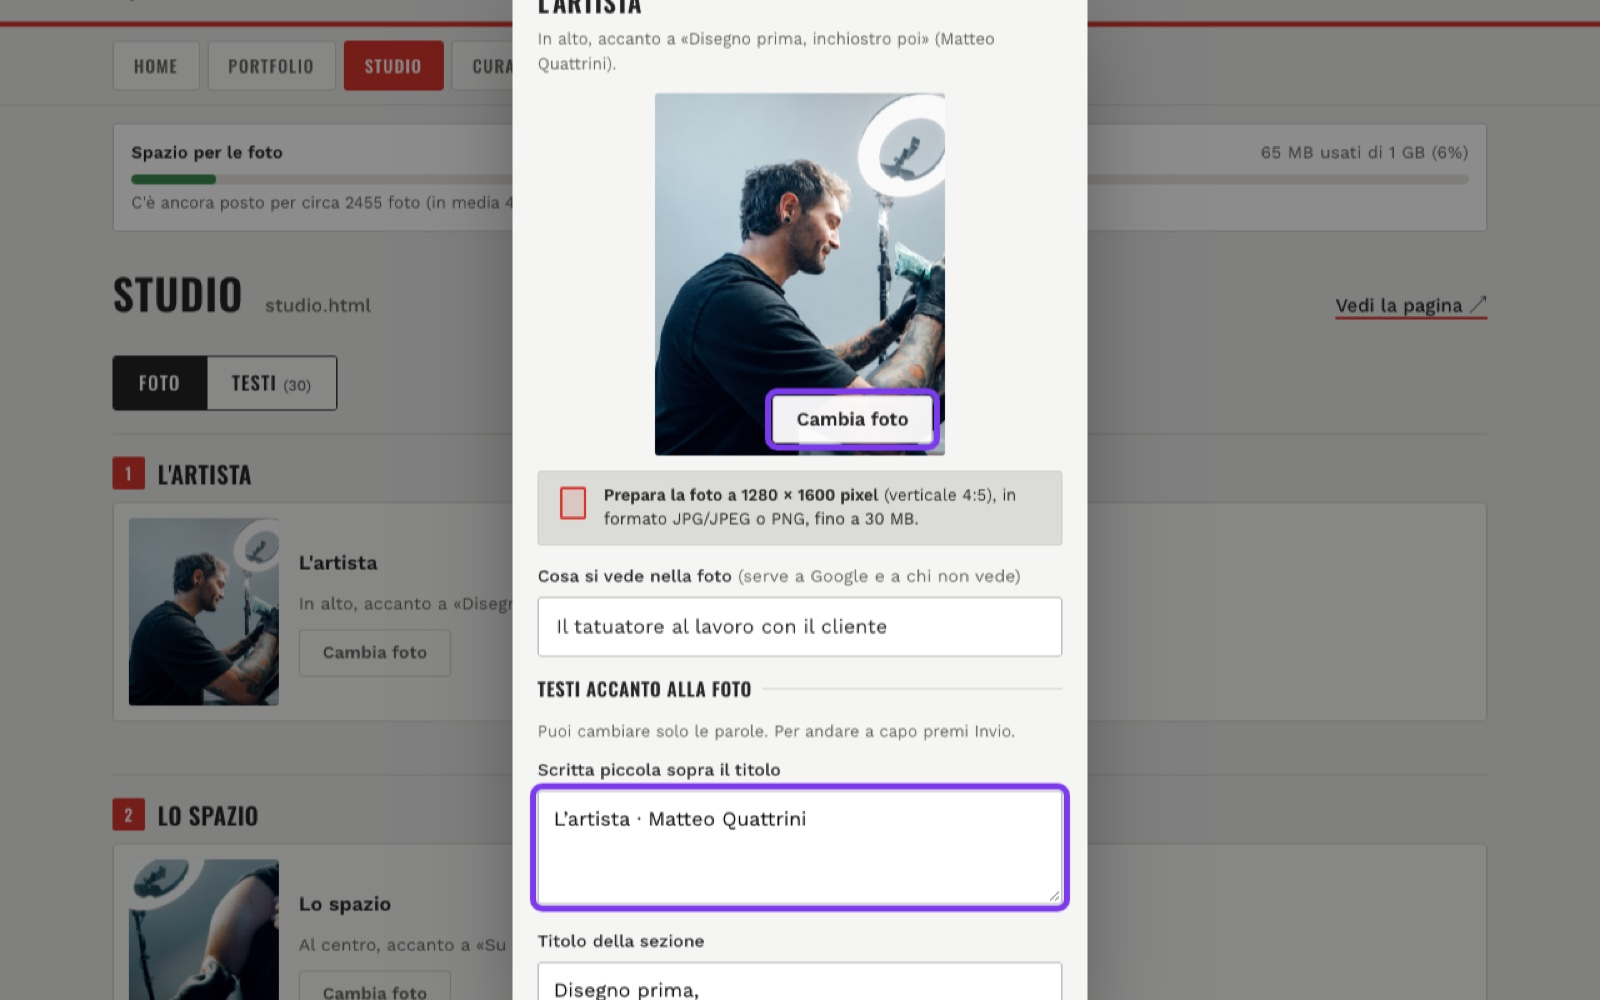
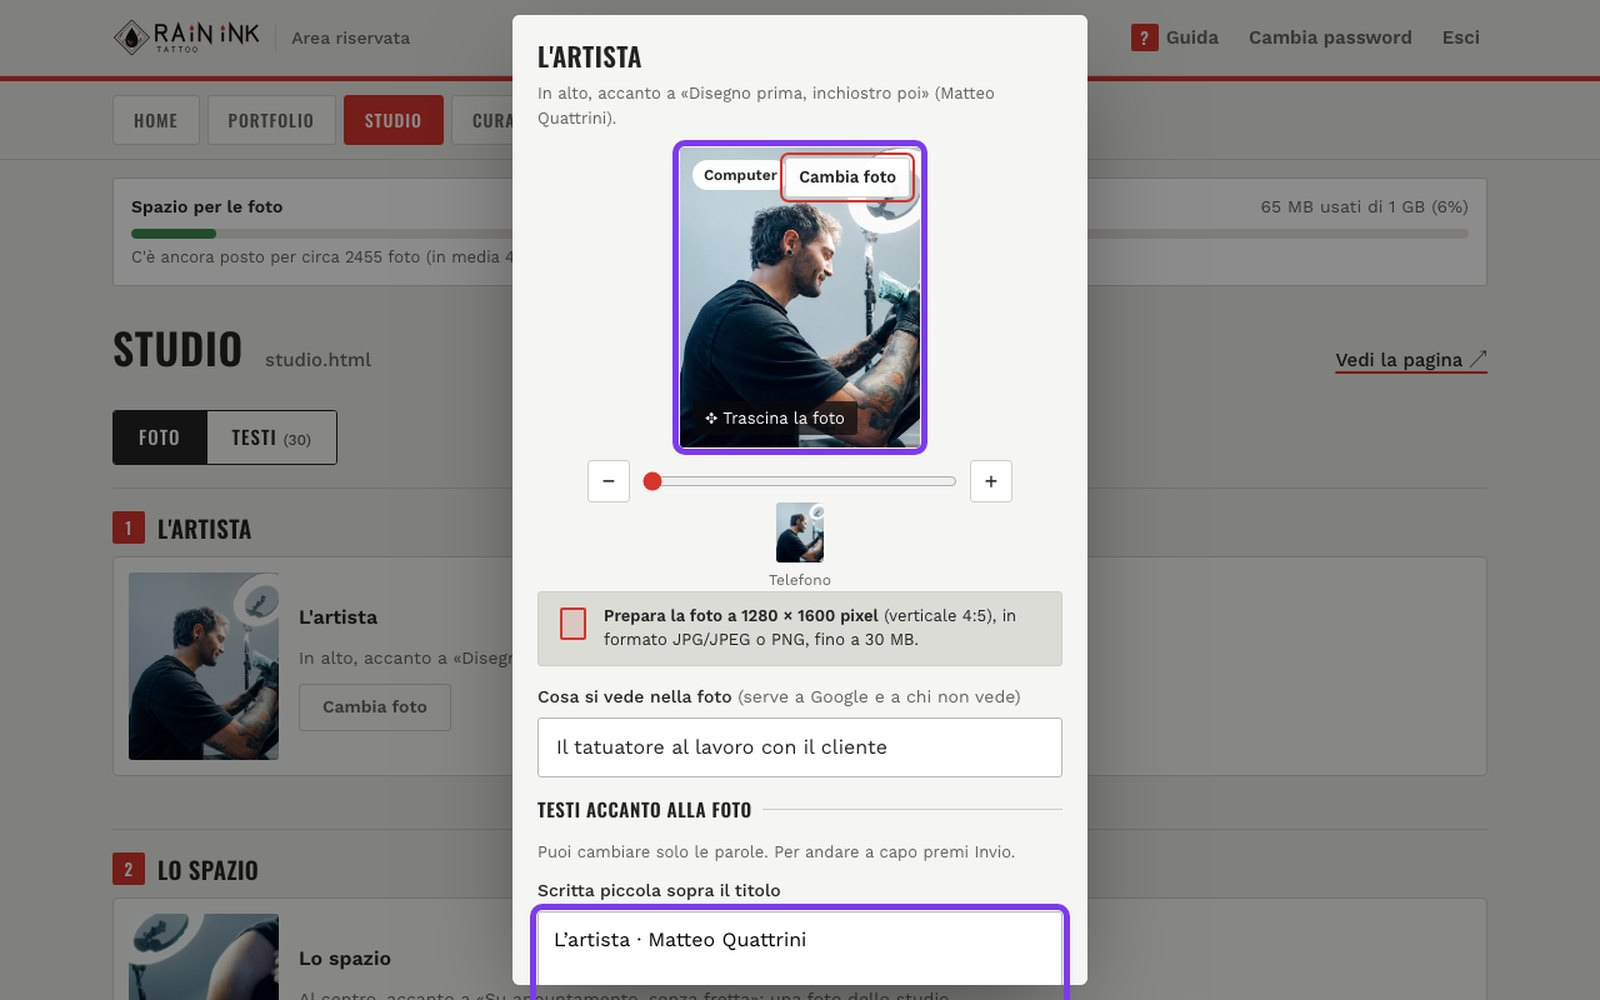
Guida dell'area riservata: schermate rifatte con l'anteprima attuale (Computer e Telefono, zoom, trascina) e punti ricalcolati; «Cambia foto» in alto a destra nell'anteprima da trascinare; versione 6.14 nel LEGGIMI

Changed region(s): [[0.0, 0.0, 1.0, 1.0], [0.8438, 0.279, 0.9375, 0.372], [0.7812, 0.186, 0.9062, 0.217]]

diff --git a/area-riservata.html b/area-riservata.html
@@ -219,6 +219,8 @@ dialog h2{font:700 21px/1.2 var(--head);margin-bottom:14px}
 .anteprima.libera:active{cursor:grabbing}
 .anteprima.libera:focus-visible{outline:3px solid var(--acc);outline-offset:2px}
 .anteprima.libera img{position:absolute;max-width:none;object-fit:fill;-webkit-user-drag:none;pointer-events:none}
+/* con la foto da trascinare «Cambia foto» sale in alto a destra, così non copre «Trascina la foto» */
+.anteprima.libera .cambia{top:8px;right:8px;bottom:auto;z-index:2;min-height:28px;padding:5px 10px;font-size:13px}
 .anteprima .mano{position:absolute;left:10px;bottom:10px;z-index:1;padding:6px 10px;border-radius:3px;background:rgba(10,10,12,.72);color:#fff;font-size:13px;line-height:1.2;pointer-events:none}
 .zoom-riga{display:flex;align-items:center;gap:10px;max-width:340px;margin:-6px auto 14px;font-size:13px;color:var(--mute)}
 .zoom-riga[hidden]{display:none}
@@ -602,7 +604,7 @@ input[type=text],input[type=password]{border-radius:3px;background:#fff;border-c
       <h3 id="g-f-aggiungere-t">Aggiungere una foto</h3>
       <div class="g-passo"><span class="num">1</span><p>In alto scegli la <b>pagina</b> del sito da modificare, per esempio <b>Portfolio</b>.</p><a href="images/guida/tab.jpg" class="g-zoom" data-punti="12.31,3.10,9.38,7.00" aria-label="Ingrandisci la schermata"><img src="images/guida/tab.jpg" alt="La fila di schede in alto con Portfolio evidenziato" width="1600" height="1000" loading="lazy" decoding="async"></a></div>
       <div class="g-passo"><span class="num">2</span><p>Clicca la casella grigia con il <b>+</b>, in fondo alle foto (nel Portfolio, in fondo al gruppo giusto: <b>Tatuaggi a colori</b>, <b>Bianco e nero</b>, <b>Video</b> o <b>Dallo studio</b>). Si apre la finestra per scegliere il file: scegli la foto e clicca <b>Apri</b>.</p><a href="images/guida/piu.jpg" class="g-zoom" data-punti="20.94,55.40,14.50,36.50" aria-label="Ingrandisci la schermata"><img src="images/guida/piu.jpg" alt="La casella con il + in fondo al gruppo" width="1600" height="1000" loading="lazy" decoding="async"></a></div>
-      <div class="g-passo"><span class="num">3</span><p>L'anteprima è la foto <b>esattamente come sul sito</b> (quella grande è il computer, sotto la piccola è il telefono). <b>Trascina la foto</b> in qualsiasi direzione e, se vuoi, <b>ingrandiscila</b> con la barra sotto (o con due dita, o con la rotella del mouse) per scegliere la parte che si vede: si salva così. Poi scrivi il <b>titolo</b> e clicca <b>Aggiungi</b>. Se hai sbagliato foto, clicca <b>Cambia foto</b>.</p><a href="images/guida/nuova.jpg" class="g-zoom" data-punti="32.94,63.90,34.12,8.00;57.94,75.90,9.12,7.50" aria-label="Ingrandisci la schermata"><img src="images/guida/nuova.jpg" alt="La finestra per aggiungere una foto, con il titolo scritto" width="1600" height="1000" loading="lazy" decoding="async"></a></div>
+      <div class="g-passo"><span class="num">3</span><p>L'anteprima è la foto <b>esattamente come sul sito</b> (quella grande è il computer, sotto la piccola è il telefono). <b>Trascina la foto</b> in qualsiasi direzione e, se vuoi, <b>ingrandiscila</b> con la barra sotto (o con due dita, o con la rotella del mouse) per scegliere la parte che si vede: si salva così. Poi scrivi il <b>titolo</b> e clicca <b>Aggiungi</b>. Se hai sbagliato foto, clicca <b>Cambia foto</b>.</p><a href="images/guida/nuova.jpg" class="g-zoom" data-punti="36.06,7.90,27.88,37.50;32.94,80.00,34.12,8.00;57.94,92.00,9.12,7.50" aria-label="Ingrandisci la schermata"><img src="images/guida/nuova.jpg" alt="La finestra per aggiungere una foto, con il titolo scritto" width="1600" height="1000" loading="lazy" decoding="async"></a></div>
       <div class="g-passo"><span class="num">4</span><p>La foto nuova lampeggia in rosso. Se vuoi spostarla, <b>tieni premuto il clic sulla foto e trascinala</b> nel posto che preferisci; altrimenti resta ultima. Poi clicca <b>Conferma e salva</b> nella barra in basso.</p><a href="images/guida/nuova-sel.jpg" class="g-zoom" data-punti="35.44,18.90,14.56,36.50;57.06,84.10,14.19,7.40" aria-label="Ingrandisci la schermata"><img src="images/guida/nuova-sel.jpg" alt="La foto nuova evidenziata e il pulsante Conferma e salva" width="1600" height="1000" loading="lazy" decoding="async"></a></div>
       <div class="g-passo"><span class="num">5</span><p>Si apre la finestra del salvataggio: aspetta che la barra arrivi in fondo e clicca <b>OK</b>. Il sito si aggiorna da solo entro qualche minuto.</p><a href="images/guida/salvato.jpg" class="g-zoom" data-punti="44.69,54.30,10.62,7.50" aria-label="Ingrandisci la schermata"><img src="images/guida/salvato.jpg" alt="La finestra Salvataggio riuscito correttamente con il pulsante OK" width="1600" height="1000" loading="lazy" decoding="async"></a></div>
     </section>
@@ -615,18 +617,18 @@ input[type=text],input[type=password]{border-radius:3px;background:#fff;border-c
     <section class="g-sez" id="g-f-modificare" aria-labelledby="g-f-modificare-t">
       <h3 id="g-f-modificare-t">Modificare una foto (titolo, gruppo o foto)</h3>
       <div class="g-passo"><span class="num">1</span><p>Clicca la foto, poi clicca <b>Modifica o elimina</b> nella barra in basso.</p><a href="images/guida/modifica.jpg" class="g-zoom" data-punti="35.00,84.10,14.81,7.40" aria-label="Ingrandisci la schermata"><img src="images/guida/modifica.jpg" alt="La barra in basso con il pulsante Modifica o elimina" width="1600" height="1000" loading="lazy" decoding="async"></a></div>
-      <div class="g-passo"><span class="num">2</span><p>Correggi il <b>titolo</b> e clicca <b>Salva</b>. Nel Portfolio da qui puoi anche spostare la foto in un <b>altro gruppo</b>. Puoi anche <b>trascinare e ingrandire</b> la foto nell'anteprima per cambiare la parte che si vede, oppure metterne un'altra con <b>Cambia foto</b>.</p><a href="images/guida/rinomina.jpg" class="g-zoom" data-punti="32.94,58.60,34.12,8.00;59.75,81.40,7.31,7.50" aria-label="Ingrandisci la schermata"><img src="images/guida/rinomina.jpg" alt="La finestra di modifica con il titolo cambiato e il pulsante Salva" width="1600" height="1000" loading="lazy" decoding="async"></a></div>
+      <div class="g-passo"><span class="num">2</span><p>Correggi il <b>titolo</b> e clicca <b>Salva</b>. Nel Portfolio da qui puoi anche spostare la foto in un <b>altro gruppo</b>. Puoi anche <b>trascinare e ingrandire</b> la foto nell'anteprima per cambiare la parte che si vede, oppure metterne un'altra con <b>Cambia foto</b>.</p><a href="images/guida/rinomina.jpg" class="g-zoom" data-punti="41.88,7.90,16.25,32.00;32.94,67.90,34.12,8.00;59.75,90.70,7.31,7.60" aria-label="Ingrandisci la schermata"><img src="images/guida/rinomina.jpg" alt="La finestra di modifica con il titolo cambiato e il pulsante Salva" width="1600" height="1000" loading="lazy" decoding="async"></a></div>
     </section>
     <section class="g-sez" id="g-f-eliminare" aria-labelledby="g-f-eliminare-t">
       <h3 id="g-f-eliminare-t">Eliminare una foto</h3>
       <div class="g-passo solo-testo"><span class="num">1</span><p>Clicca la foto, poi clicca <b>Modifica o elimina</b> nella barra in basso (come per modificarla).</p></div>
-      <div class="g-passo"><span class="num">2</span><p>Clicca <b>Elimina</b> in basso a sinistra nella finestra. Il pulsante diventa rosso con scritto <b>Sì, elimina</b>: cliccalo di nuovo per confermare.</p><a href="images/guida/elimina.jpg" class="g-zoom" data-punti="32.94,81.40,10.25,7.50" aria-label="Ingrandisci la schermata"><img src="images/guida/elimina.jpg" alt="Il pulsante rosso Sì, elimina" width="1600" height="1000" loading="lazy" decoding="async"></a></div>
+      <div class="g-passo"><span class="num">2</span><p>Clicca <b>Elimina</b> in basso a sinistra nella finestra. Il pulsante diventa rosso con scritto <b>Sì, elimina</b>: cliccalo di nuovo per confermare.</p><a href="images/guida/elimina.jpg" class="g-zoom" data-punti="32.94,90.70,10.25,7.60" aria-label="Ingrandisci la schermata"><img src="images/guida/elimina.jpg" alt="Il pulsante rosso Sì, elimina" width="1600" height="1000" loading="lazy" decoding="async"></a></div>
       <p class="g-nota rossa">L'eliminazione è definitiva: la foto sparisce dal sito. Se non clicchi «Sì, elimina» non succede nulla.</p>
     </section>
     <section class="g-sez" id="g-f-fisse" aria-labelledby="g-f-fisse-t">
       <h3 id="g-f-fisse-t">Cambiare le foto fisse</h3>
       <div class="g-passo"><span class="num">1</span><p>Nella <b>Home</b> (la foto grande della prima schermata) e nella pagina <b>Studio</b> (L'artista e Lo spazio) ci sono foto con un posto fisso: clicca <b>Cambia foto</b> accanto a quella da cambiare.</p><a href="images/guida/fissa.jpg" class="g-zoom" data-punti="18.06,61.90,10.75,6.80" aria-label="Ingrandisci la schermata"><img src="images/guida/fissa.jpg" alt="Una foto fissa della pagina Studio con il pulsante Cambia foto" width="1600" height="1000" loading="lazy" decoding="async"></a></div>
-      <div class="g-passo"><span class="num">2</span><p>Nella finestra vedi la foto come sul sito (computer e telefono): puoi <b>trascinarla e ingrandirla</b> per cambiare la parte che si vede, oppure clicca <b>Cambia foto</b> e scegli quella nuova. Scrivi in breve cosa si vede (serve a Google). Più sotto, in <b>Testi accanto alla foto</b>, puoi cambiare anche i testi che stanno vicino a quella foto nella pagina (titolo, descrizione…). Poi clicca <b>Salva</b>.</p><a href="images/guida/fissa-scheda.jpg" class="g-zoom" data-punti="47.62,38.60,11.31,6.70;32.94,78.10,34.12,13.30" aria-label="Ingrandisci la schermata"><img src="images/guida/fissa-scheda.jpg" alt="La finestra per cambiare una foto, con Cambia foto e i testi accanto alla foto evidenziati" width="1600" height="1000" loading="lazy" decoding="async"></a></div>
+      <div class="g-passo"><span class="num">2</span><p>Nella finestra vedi la foto come sul sito (computer e telefono): puoi <b>trascinarla e ingrandirla</b> per cambiare la parte che si vede, oppure clicca <b>Cambia foto</b> e scegli quella nuova. Scrivi in breve cosa si vede (serve a Google). Più sotto, in <b>Testi accanto alla foto</b>, puoi cambiare anche i testi che stanno vicino a quella foto nella pagina (titolo, descrizione…). Poi clicca <b>Salva</b>.</p><a href="images/guida/fissa-scheda.jpg" class="g-zoom" data-punti="41.88,13.70,16.25,32.00;32.94,90.10,34.12,9.90" aria-label="Ingrandisci la schermata"><img src="images/guida/fissa-scheda.jpg" alt="La finestra per cambiare una foto, con Cambia foto e i testi accanto alla foto evidenziati" width="1600" height="1000" loading="lazy" decoding="async"></a></div>
       <p class="g-nota">Ogni pagina è indipendente: una foto cambiata in una pagina resta uguale in tutte le altre.</p>
     </section>
     <section class="g-sez" id="g-f-formati" aria-labelledby="g-f-formati-t">
